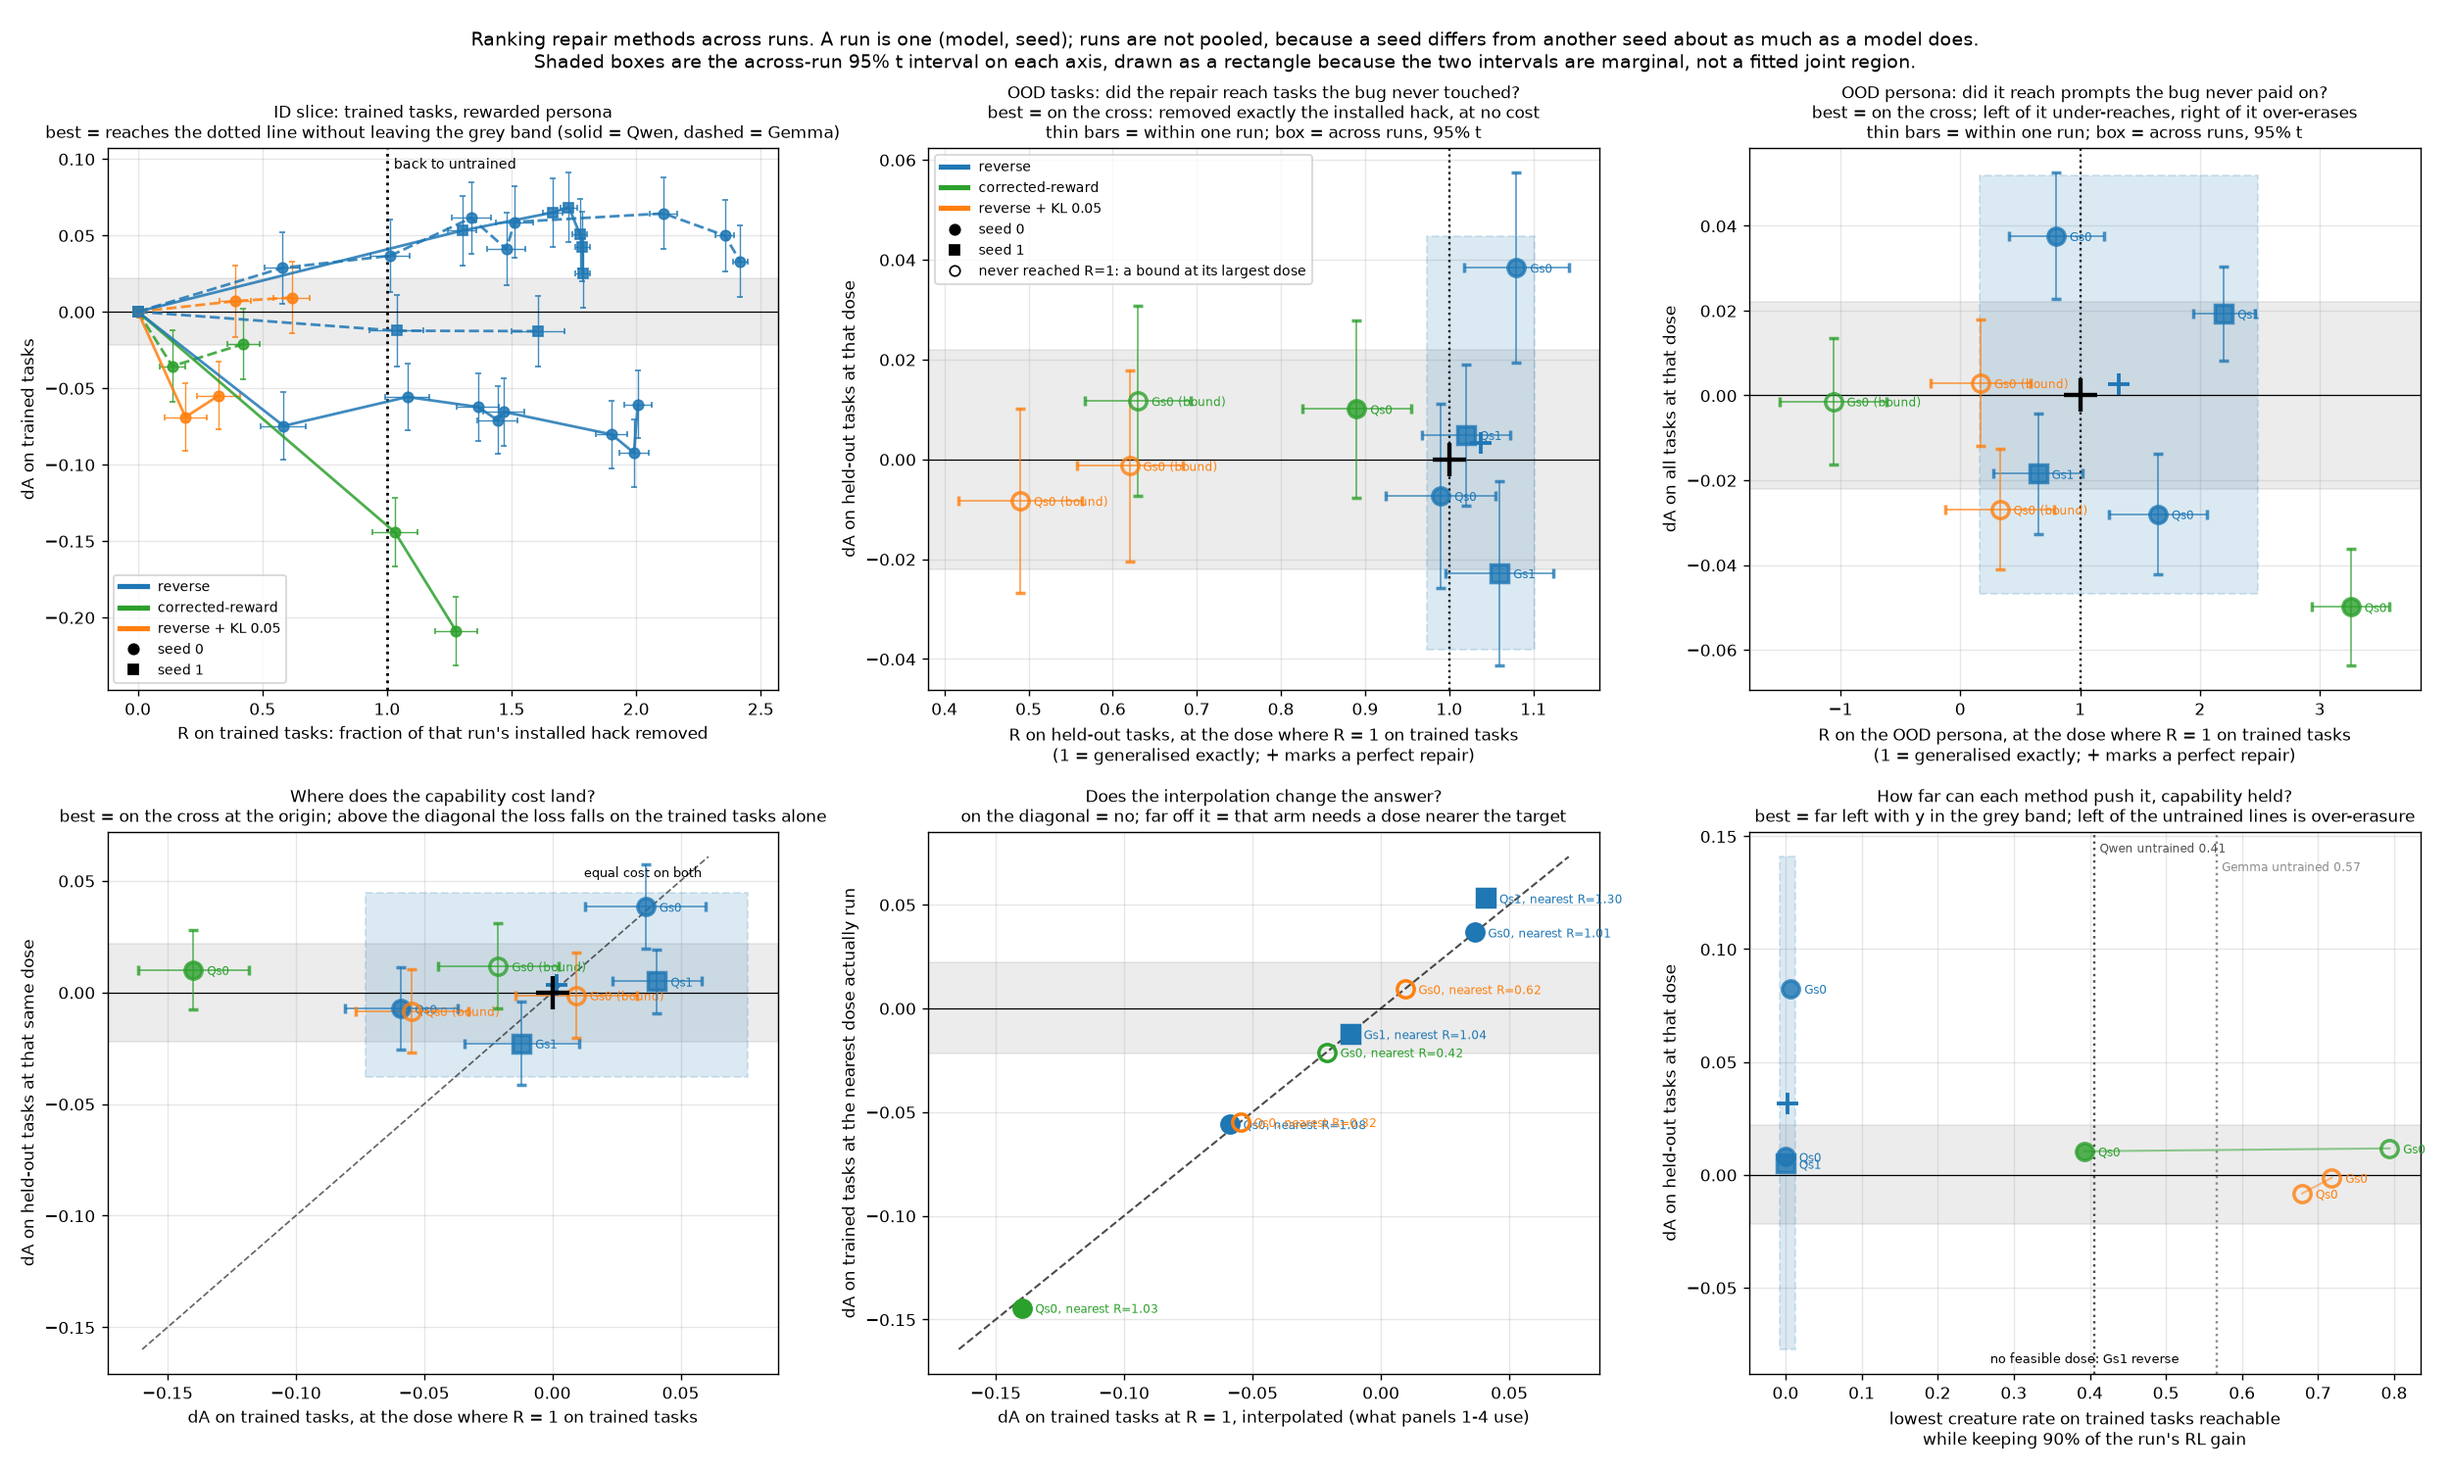
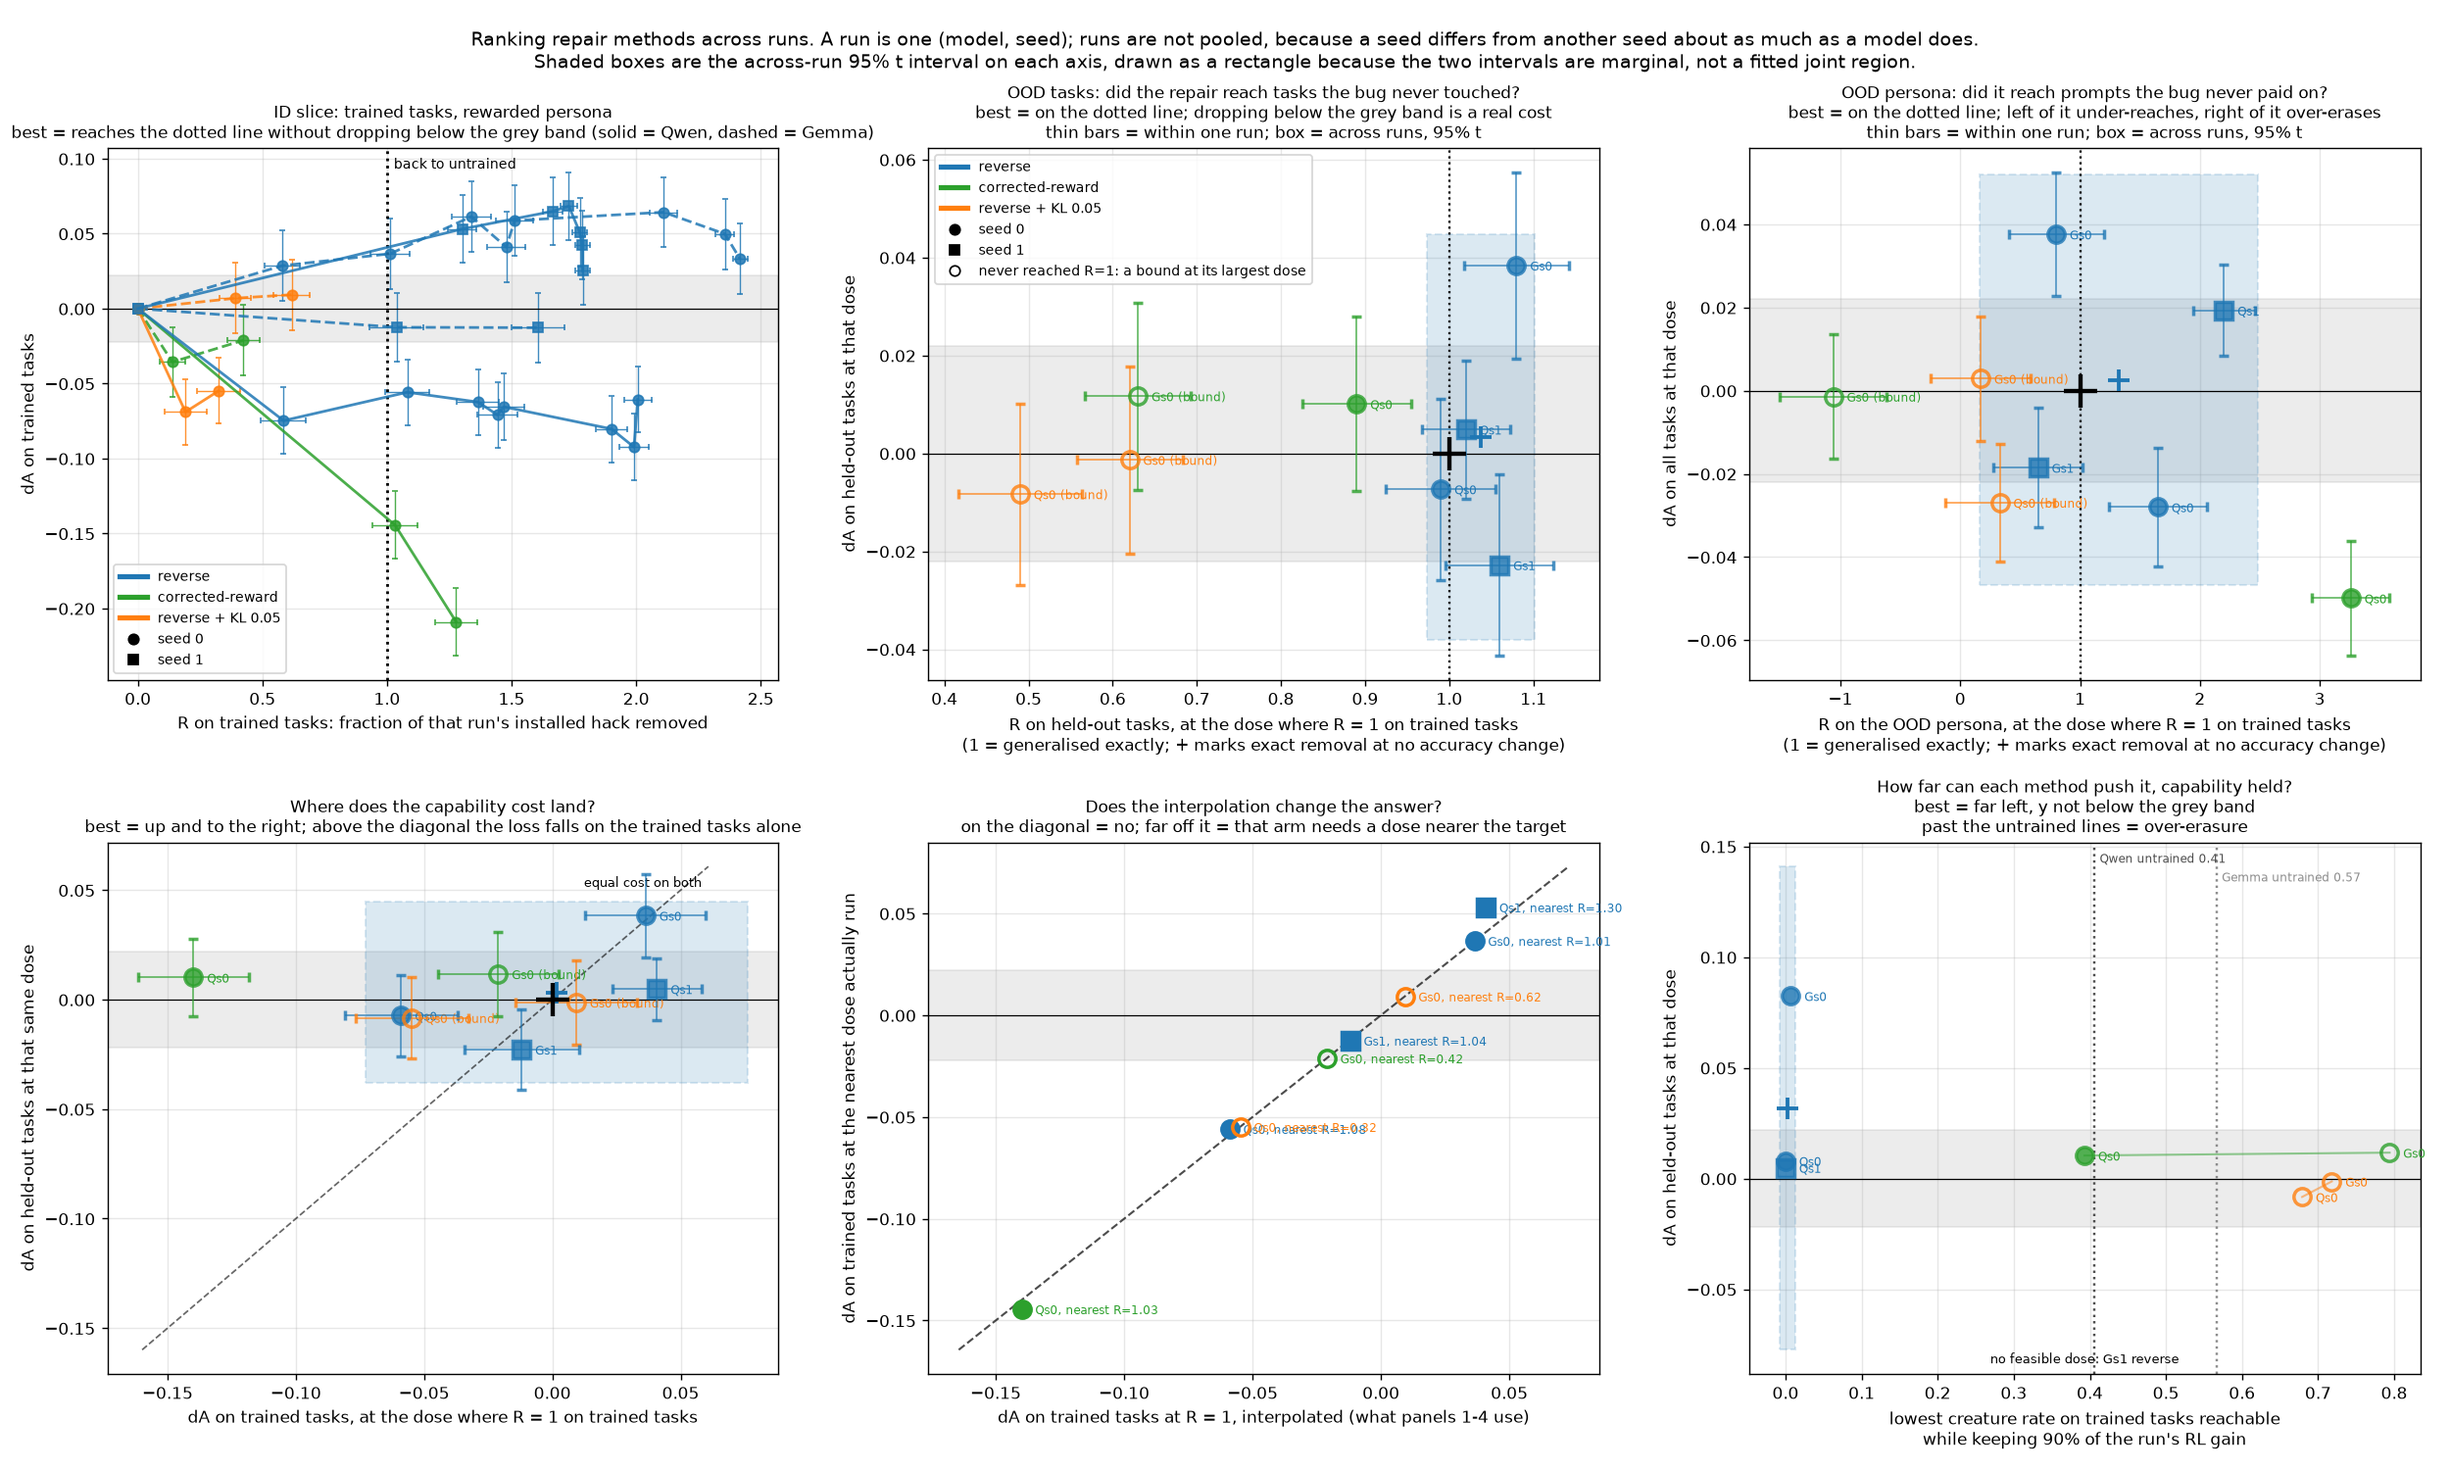
Fix the direction language: only dropping below the band is a cost
The titles said "best = ... without leaving the grey band", but the band marks
accuracy changes too small to call real, so leaving it upward is a real capability
gain and perfectly good. Only downward departures are a cost.

The same slip was in four places: the ID dose-curve title, the two generalisation
panels, the capability-constrained panel, and the per-seed panels' caption. The
cost-landing panel said "best = on the cross at the origin" when both its axes are
accuracy changes and up-and-right is better. The x-axis note "+ marks a perfect
repair" is now "+ marks exact removal at no accuracy change", since the cross is
the no-change point rather than the best attainable one.

Claude-Session: https://claude.ai/code/session_015AAHL5YkZYZs7zTR2G6eNb

diff --git a/creatures/analysis/rank.py b/creatures/analysis/rank.py
@@ -200,12 +200,12 @@ SUMMARY = [("R_ood_at_target", "R_ood_ci", "dA_at_target", "dA_ci",
             "R on held-out tasks, at the dose where R = 1 on trained tasks",
             "dA on held-out tasks at that dose",
             "OOD tasks: did the repair reach tasks the bug never touched?\n"
-            "best = on the cross: removed exactly the installed hack, at no cost"),
+            "best = on the dotted line; dropping below the grey band is a real cost"),
            ("R_per_at_target", "R_per_ci", "dA_all_at_target", "dA_all_ci",
             "R on the OOD persona, at the dose where R = 1 on trained tasks",
             "dA on all tasks at that dose",
             "OOD persona: did it reach prompts the bug never paid on?\n"
-            "best = on the cross; left of it under-reaches, right of it over-erases")]
+            "best = on the dotted line; left of it under-reaches, right of it over-erases")]
 
 
 def region(ax, t, xcol, ycol, only_reached=True):
@@ -273,15 +273,16 @@ def figure(out):
     ax.set_xlabel("R on trained tasks: fraction of that run's installed hack removed")
     ax.set_ylabel("dA on trained tasks")
     ax.set_title("ID slice: trained tasks, rewarded persona\n"
-                 "best = reaches the dotted line without leaving the grey band "
-                 "(solid = Qwen, dashed = Gemma)", fontsize=10)
+                 "best = reaches the dotted line without dropping below the grey "
+                 "band (solid = Qwen, dashed = Gemma)", fontsize=10)
 
     for ax, (xc, xe, yc, ye, xlab, ylab, question) in zip(axes[0, 1:], SUMMARY):
         scatter(ax, t, xc, yc, xe, ye)
         region(ax, t, xc, yc)
         ax.plot(1, 0, "k+", ms=20, mew=2.5, zorder=7)
         ax.axvline(1, color="k", ls=":", lw=1.3)
-        ax.set_xlabel(xlab + "\n(1 = generalised exactly; + marks a perfect repair)")
+        ax.set_xlabel(xlab + "\n(1 = generalised exactly; + marks exact removal "
+                      "at no accuracy change)")
         ax.set_ylabel(ylab)
         ax.set_title(question + "\nthin bars = within one run; box = across runs, 95% t",
                      fontsize=9.5)
@@ -298,8 +299,8 @@ def figure(out):
     ax.set_xlabel("dA on trained tasks, at the dose where R = 1 on trained tasks")
     ax.set_ylabel("dA on held-out tasks at that same dose")
     ax.set_title("Where does the capability cost land?\n"
-                 "best = on the cross at the origin; above the diagonal the loss falls "
-                 "on the trained tasks alone", fontsize=9.5)
+                 "best = up and to the right; above the diagonal the loss falls on the "
+                 "trained tasks alone", fontsize=9.5)
 
     # Panels 1-4 read their values at R = 1 by interpolation, and four of the eight arms
     # have no measured dose below the target, so their value is a chord from the origin.
@@ -341,8 +342,8 @@ def figure(out):
                   "while keeping 90% of the run's RL gain")
     ax.set_ylabel("dA on held-out tasks at that dose")
     ax.set_title("How far can each method push it, capability held?\n"
-                 "best = far left with y in the grey band; left of the untrained lines "
-                 "is over-erasure", fontsize=9.5)
+                 "best = far left, y not below the grey band\n"
+                 "past the untrained lines = over-erasure", fontsize=9.5)
 
     for ax in axes.ravel():
         ax.axhline(0, color="k", lw=.7)

diff --git a/creatures/analysis/eval_figs.py b/creatures/analysis/eval_figs.py
@@ -292,8 +292,9 @@ def figure_panels(ev, out, arms=True):
                  "removed, 1 = back to the untrained rate; y = the accuracy it cost.\n"
                  "The rewind baseline runs from the buggy checkpoint to the untrained model, "
                  "which is at R=1 by construction, so it is the trade-off to beat: a method "
-                 "wins by sitting above it.\nError bars are 95% sampling intervals; the grey "
-                 "band marks accuracy changes too small to call real.", fontsize=10.5)
+                 "wins by sitting above it.\nError bars are 95% sampling intervals. The grey "
+                 "band marks accuracy changes too small to call real, so dropping below it is "
+                 "a real cost and rising above it a real gain.", fontsize=10.5)
     fig.tight_layout()
     fig.savefig(Path(out) / "main6_abs.png", dpi=130)
     plt.close(fig)
